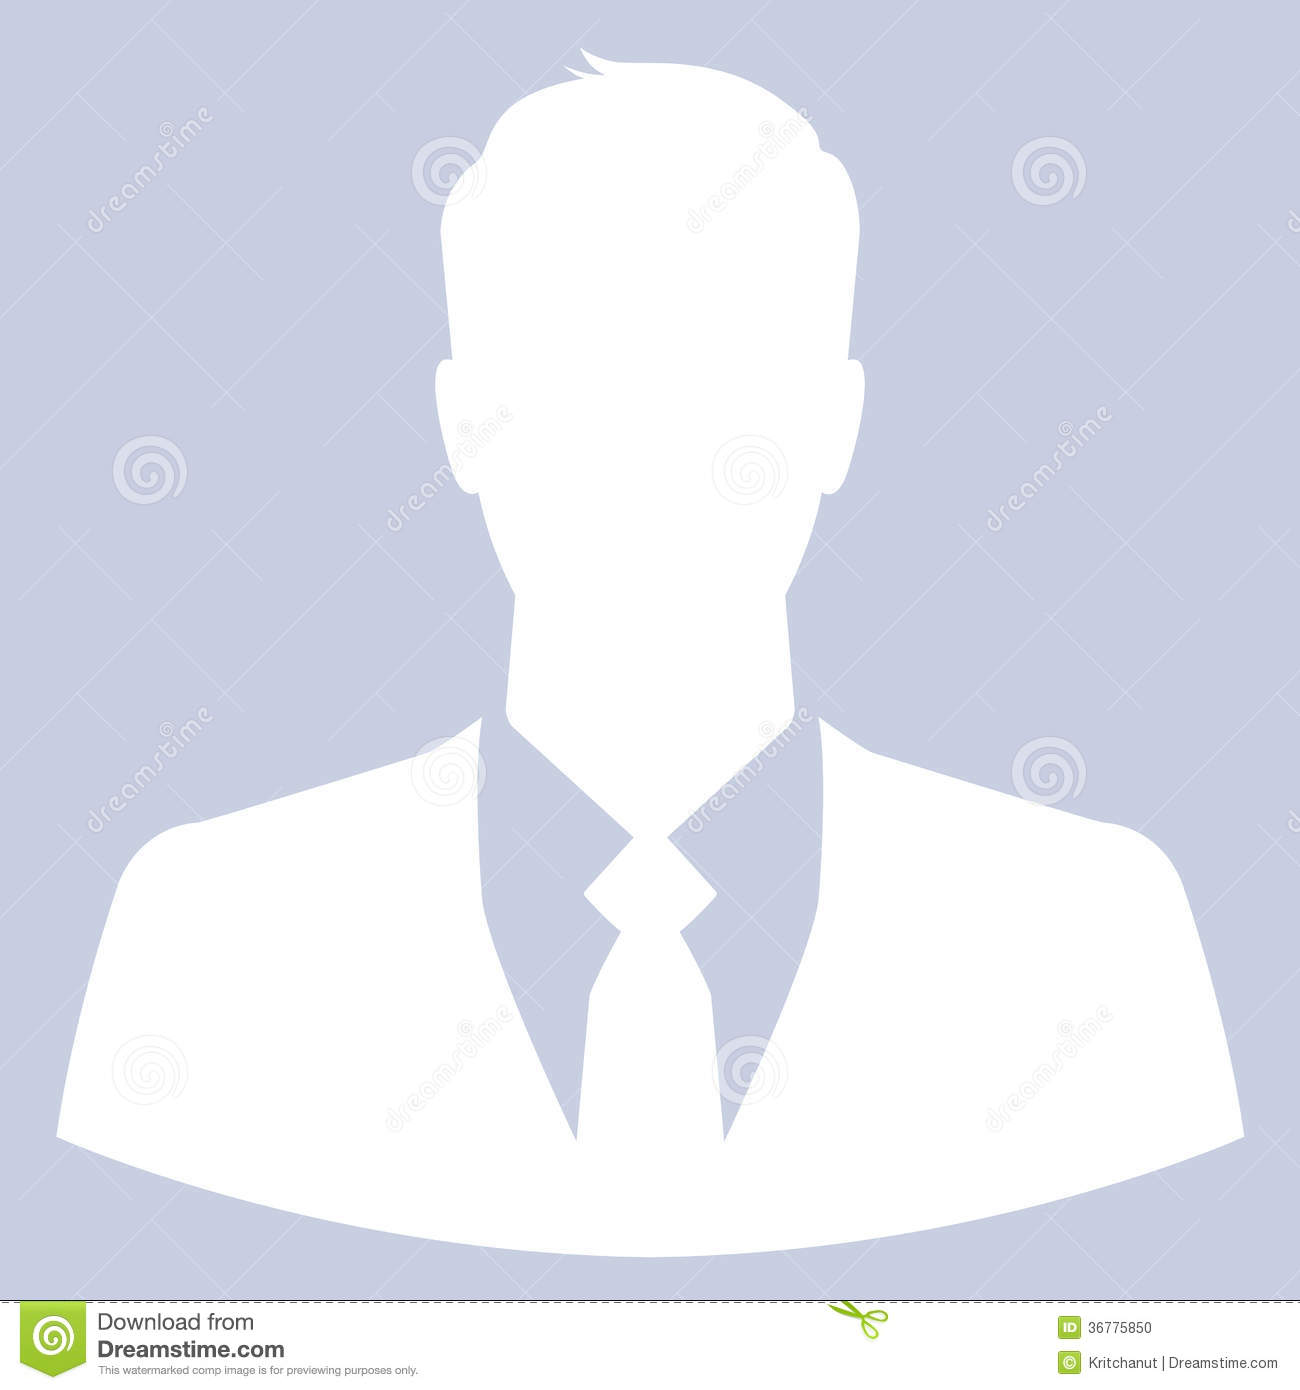
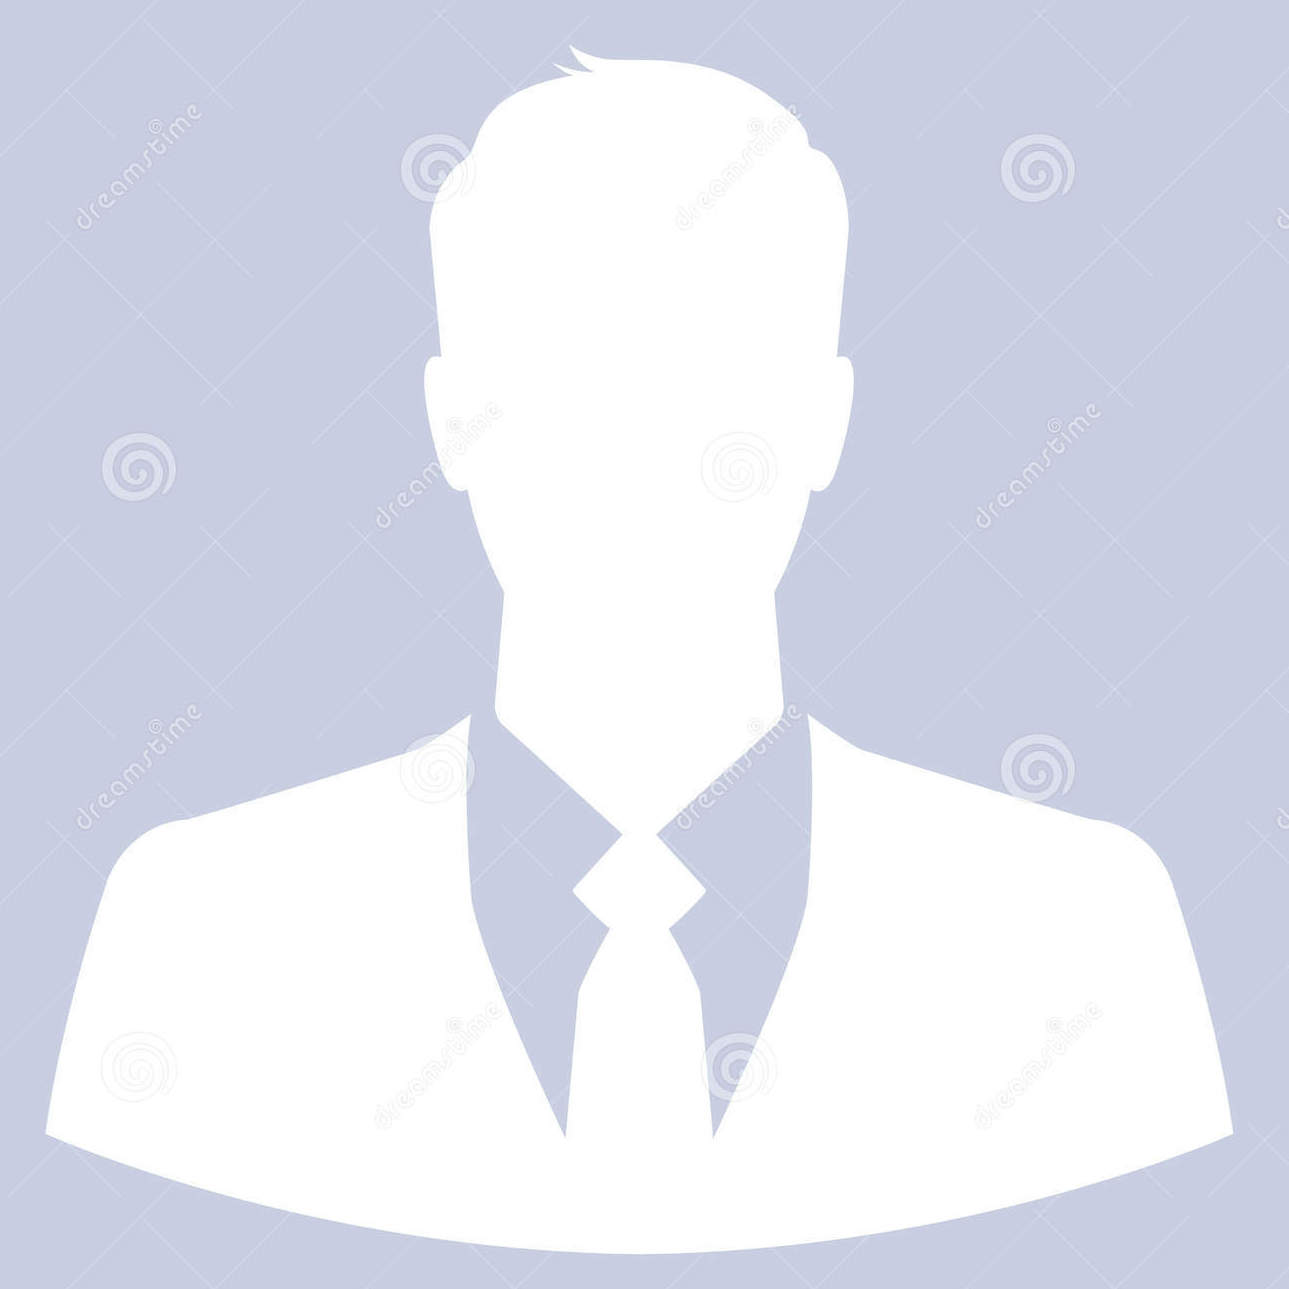
Load user image in listings page

diff --git a/client/js/controllers/signupController.js b/client/js/controllers/signupController.js
@@ -14,15 +14,20 @@ signupController.controller('SignupCtrl', ['$scope', '$sessionStorage', 'User', 
     $scope.google_token = authResp.id_token;
     $scope.image_url = profile.getImageUrl();
 
+    if (profile.getImageUrl() ===  undefined) {
+      console.log("if");
+      $scope.image_url = "static/stockprofilephoto.jpg";
+    }
+
     $sessionStorage.name = profile.getName();
     $sessionStorage.email = profile.getEmail();
     $sessionStorage.google_token = authResp.id_token;
-    $sessionStorage.image_url = profile.getImageUrl();
+    $sessionStorage.image_url = $scope.image_url;
 
     console.log('Full Name: ' + profile.getName());
     console.log("Email: " + profile.getEmail());
     console.log("ID Token: " + authResp.id_token);
-    console.log("Image URL: " + profile.getImageUrl());
+    console.log("Image URL: " + $scope.image_url);
   };
 
   $scope.createUser = function (credentials) {

diff --git a/client/views/html/partials/interviewer-list.html b/client/views/html/partials/interviewer-list.html
@@ -2,17 +2,17 @@
 <link rel="stylesheet" type="text/css" href="static/interviewer-list.css">
 
 <div ng-controller="IntListCtrl" class="container-fluid">
-<!--   <h1>There are {{interviewers.length}} interviewers</h1> -->
   <div class="profiles-container">
     <div class="card profile" ng-repeat="interviewer in interviewers">
         <div class="card-profile-photo">
-          <img src={{interviewer.image_url}} class="profile-photo" alt="Card image">
+          <img ng-src="{{interviewer.image_url}}" class="profile-photo" alt="Card image">
         </div>
 
         <div class="card-block">
           <h4 class="card-title">{{interviewer.name}}</h4>
           <h6 class="card-subtitle text-muted">{{interviewer.school}}</h6>
           <p class="card-text">{{interviewer.headline}}</p>
+          
         </div>
       </a>
 

diff --git a/client/views/html/partials/dashboard.html b/client/views/html/partials/dashboard.html
@@ -140,7 +140,7 @@
             <ul class="nav navbar-nav navbar-right">
               <li class="">
                 <a href="javascript:;" class="user-profile dropdown-toggle" data-toggle="dropdown" aria-expanded="false">
-                  <img src="/static/dashboard/samvit.jpg" alt="">{{user}}
+                  <img ng-src="{{image_url}}" alt="">{{user}}
                   <span class=" fa fa-angle-down"></span>
                 </a>
                 <ul class="dropdown-menu dropdown-usermenu pull-right">

diff --git a/client/js/controllers/registerController.js b/client/js/controllers/registerController.js
@@ -32,6 +32,7 @@ registerController.controller('RegisterCtrl', ['$scope', '$sessionStorage', 'Use
       "name": $sessionStorage.name,
       "email": $sessionStorage.email,
       "google_token": $sessionStorage.google_token,
+      "image_url": $sessionStorage.image_url,
       "interviewer": true, 
       "school": $scope.school,
       "headline": $scope.headline,

diff --git a/client/js/controllers/interviewersListController.js b/client/js/controllers/interviewersListController.js
@@ -5,7 +5,7 @@ interviewersListController.controller('IntListCtrl', ['$scope', '$sessionStorage
 	Interview.interviews.query({id: "572050502b0ab9e44b5eaae8"}, function(results) {
 		// console.log(results)
 	});
-
+   
   User.interviewers.query(function (results) {
   	var currentTime = new Date();
   	results.forEach(function(interviewer) {

diff --git a/client/js/controllers/dashboardController.js b/client/js/controllers/dashboardController.js
@@ -3,4 +3,5 @@ var dashboardController = angular.module('dashboardController', []);
 dashboardController.controller('DashboardCtrl', ['$scope', '$sessionStorage', '$resource', function ($scope, $sessionStorage, $resource) {
 
    $scope.user=$sessionStorage.name;
+   $scope.image_url=$sessionStorage.image_url;
 }]);

diff --git a/client/views/css/interviewer-list.css b/client/views/css/interviewer-list.css
@@ -12,8 +12,8 @@
 }
 
 .profile-photo {
-   width: 100px;
-   height: 150px;
+   width: 175px;
+   height: 175px;
    display: block;
    margin-left: auto;
    margin-right: auto;
@@ -23,7 +23,7 @@
 
 .card-profile-photo {
    float: left;
-   width: 120px;
+   width: 175px;
    height: 100%;
 }
 
